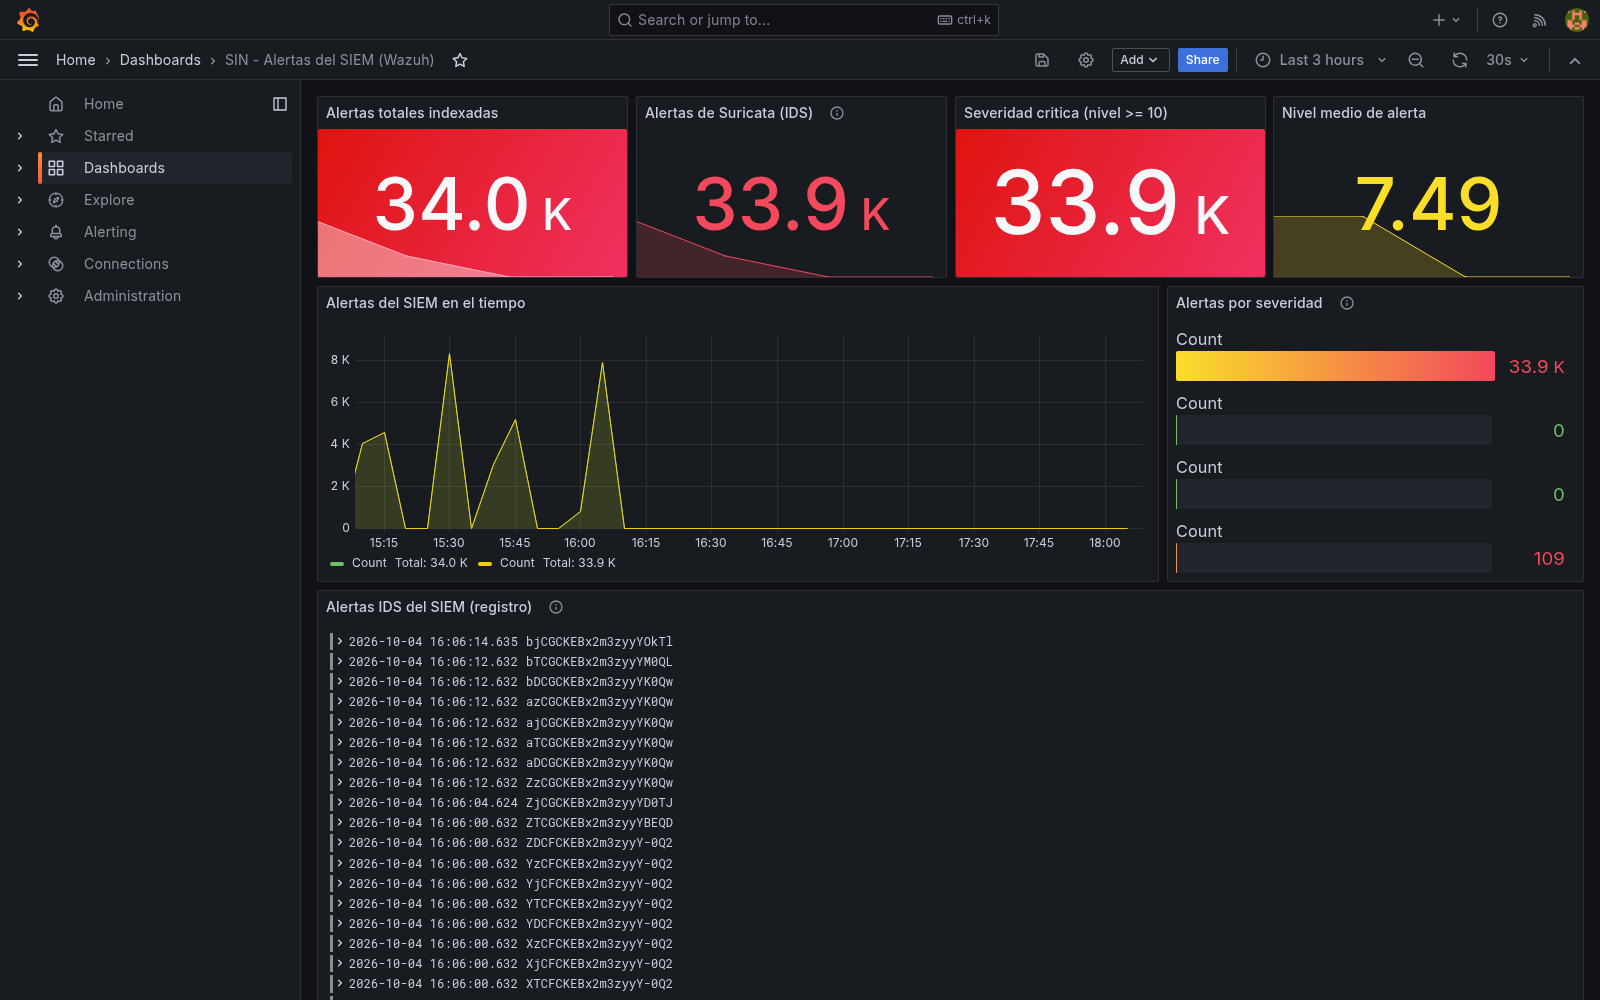
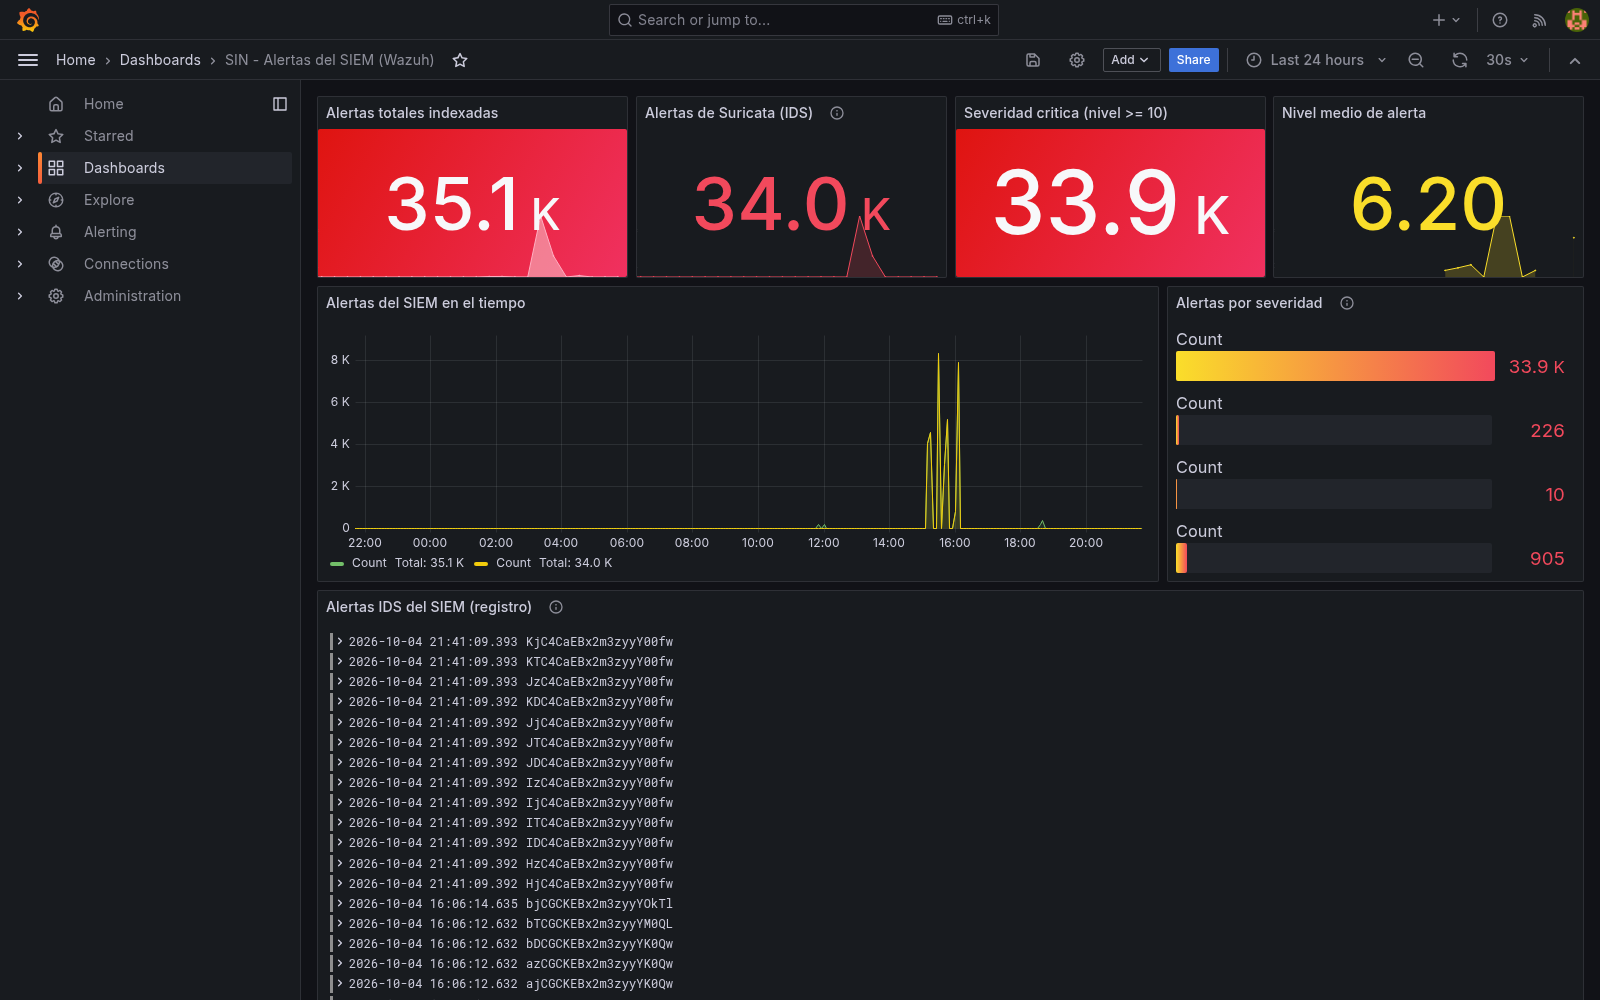
[P2] evidencia: consolas de las plataformas de gestion (5 capturas de navegador)
Para el apartado de despliegue (4.3.6.1) no basta con decir que los
contenedores arrancan: se captura cada consola autenticada.

- 05_misp-eventos: MISP autenticado con el menu completo. Se ve tambien que
  muestra cero eventos: nada alimenta la plataforma de inteligencia y los IOCs
  de la campana no se exportan. Queda anotado como limitacion.
- 06_velociraptor-consola: consola DFIR con su menu de Hunt Manager.
- 07_shuffle-workflows: catalogo de workflows del SOAR, ya saltado el
  asistente de bienvenida (sino solo se ve el marketing de shuffle.io).
- 08_thehive-organizaciones: la pagina de licencia de prueba que bloquea
  TheHive. Se captura precisamente para documentar la limitacion con
  evidencia visual y no solo con texto.
- 09_cortex-sin-inicializar: Cortex desplegado pero sin usuario inicial. Se
  probaron el bloque auth.init.admin de application.conf y las variables
  CORTEX_INIT_ADMIN_* y ninguno inicializa el admin en esta imagen, asi que
  se documenta el estado real en vez de inventar una captura Util.

La figura del panel del SIEM se movio a la iteracion 2: los 35,1 K de alertas
que muestra proceden de la campana de it2 y no debian figurar como evidencia
de it1. Se regenero con ventana de 24 horas para que la actividad IDS de la
campana sea visible (antes se veian 0 alertas IDS por el rango de 3 horas).

Las figuras de terminal siguen verificandose: it1 17/17, it2 16/16.

diff --git a/evidencias/INDICE.md b/evidencias/INDICE.md
@@ -11,7 +11,7 @@ fichero `.txt` con la salida real del comando, que es la fuente verificable.
 
 | Subcarpeta | N.º | Contenido |
 |---|---|---|
-| `01-entorno-servicios/` | 4 | Contenedores, imágenes propias, servicios declarados e índices del SIEM |
+| `01-entorno-servicios/` | 9 | Contenedores, imágenes propias, servicios declarados, índices del SIEM y las consolas de MISP, Velociraptor, Shuffle, TheHive y Cortex |
 | `02-senuelo/` | 5 | Portal SIN: inicio, acceso por NIT, verificación en dos pasos, alta y panel |
 | `03-aislamiento-red/` | 4 | Redes `sin-*`, subredes y prueba de segmentación desde el atacante |
 | `04-captura-eventos/` | 4 | Alertas del SIEM con MITRE, panel, reglas IDS y logs NDR |
@@ -19,7 +19,7 @@ fichero `.txt` con la salida real del comando, que es la fuente verificable.
 | `06-correlacion-incidentes/` | 2 | Ataques con técnica MITRE y disponibilidad del SOAR |
 | `07-metricas/` | 2 + JSON | Indicadores y cobertura; incluye los JSON fuente |
 
-**Total: 23 figuras** (18 registros de terminal + 5 capturas de navegador).
+**Total: 28 figuras** (18 registros de terminal + 10 capturas de navegador).
 
 ## Iteración 2 (`v2.1-it2`)
 
@@ -107,6 +107,8 @@ trámite.
 | L9 | TheHive 5.5 redirige toda ruta a su página de organizaciones por el estado de licencia en prueba | Impide la vista de casos y, con ella, medir MTTR, MTTC y MTTContain |
 | L10 | La red `sin-ids` (10.23.0.0/24) está declarada pero no se crea, porque Suricata y Zeek corren en `network_mode: host` | En ejecución hay tres segmentos, no cuatro como describe el capítulo |
 | L11 | Cerrada en it2: seis escenarios no tenían MTTD medido | Resuelta: 10 de 10 escenarios con MTTD |
+| — | MISP desplegado pero sin ningún evento: nada alimenta la plataforma de inteligencia | Los IOCs de la campaña no se exportan desde Wazuh |
+| — | Cortex desplegado pero sin usuario inicial: la imagen no permite crearlo | Su API responde `user init not found` y su interfaz muestra el error |
 
 ## Estado del laboratorio al cierre
 
@@ -117,4 +119,5 @@ trámite.
 | Servicios de gestión autenticados | 7 de 7 responden 200 |
 | Campaña de ataque | 10 de 10 escenarios ejecutados |
 | Escenarios con MTTD medido | 10 de 10 |
-| Figuras verificadas contra su fuente | it1 17/17, it2 16/16 |
+| Figuras de terminal verificadas contra su fuente | it1 17/17, it2 16/16 |
+| Consolas de las plataformas | 5 capturadas (MISP, Velociraptor, Shuffle, TheHive, Cortex) |

diff --git a/evidencias/v2.0-it1/MANIFIESTO.md b/evidencias/v2.0-it1/MANIFIESTO.md
@@ -30,6 +30,11 @@ capturas directas del navegador, sin procesamiento.
 | Figura | N.º checklist | Qué demuestra | Fuente | Sección de tesis |
 |---|---|---|---|---|
 | `01-entorno-servicios/01_docker-compose-ps` | 2 | Los 25 contenedores en ejecución | `docker compose ps` | 4.3.6.1 |
+| `01-entorno-servicios/05_misp-eventos` | 2 | Consola de MISP autenticada | navegador | 4.3.6.1 |
+| `01-entorno-servicios/06_velociraptor-consola` | 2 | Consola DFIR de Velociraptor | navegador | 4.3.6.1 |
+| `01-entorno-servicios/07_shuffle-workflows` | 2 | Catálogo de workflows del SOAR | navegador | 4.3.6.1 |
+| `01-entorno-servicios/08_thehive-organizaciones` | 2 | Estado que bloquea TheHive (limitación 2) | navegador | 4.3.6.1 |
+| `01-entorno-servicios/09_cortex-sin-inicializar` | 2 | Cortex desplegado sin usuario inicial (limitación 6) | navegador | 4.3.6.1 |
 | `01-entorno-servicios/02_docker-images` | 2 | Imágenes propias `sin/decoy-portal` y `sin/decoy-api` | `docker images` | 4.3.6.1 |
 | `01-entorno-servicios/03_docker-compose-config-services` | 2 | Los 25 servicios declarados | `docker compose config --services` | 4.3.6.1 |
 | `01-entorno-servicios/04_wazuh-indexer-indices` | 2 | El SIEM indexando alertas | `_cat/indices` del indexer | 4.3.6.4 |
